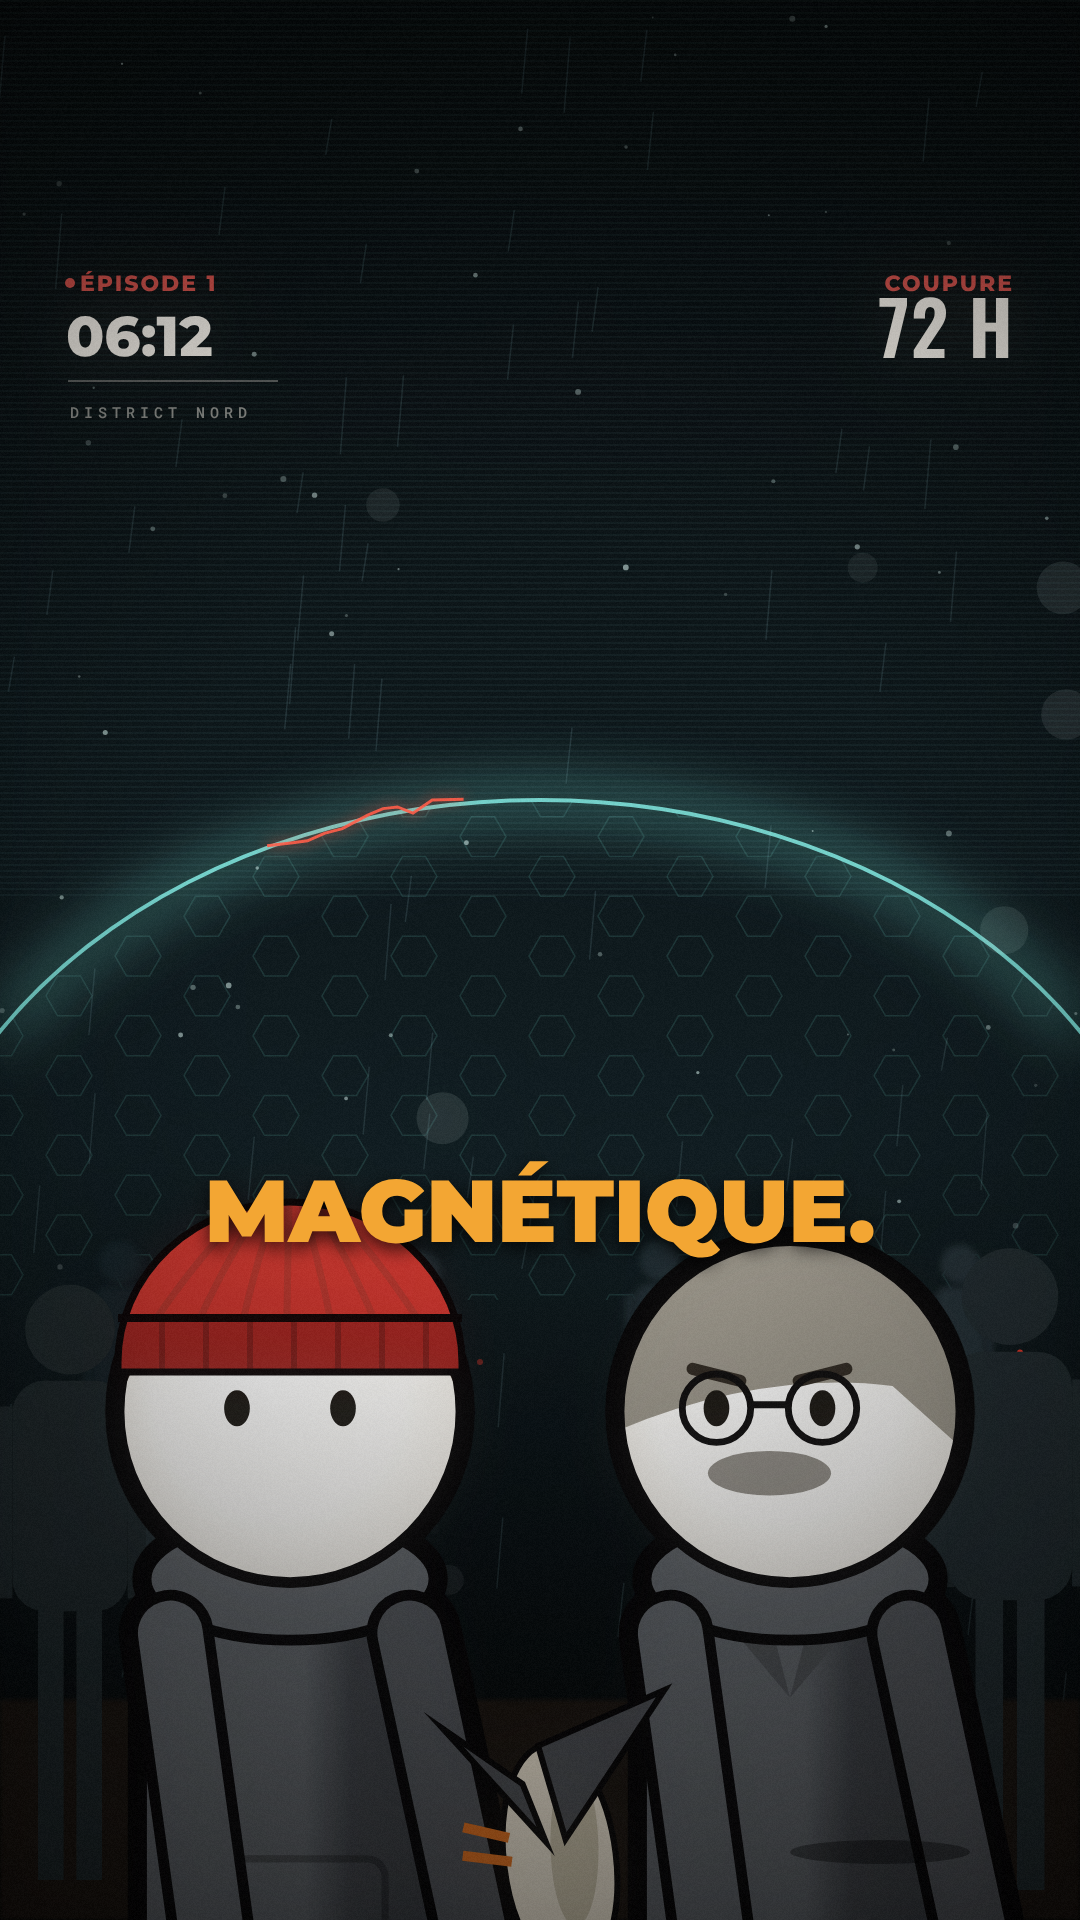
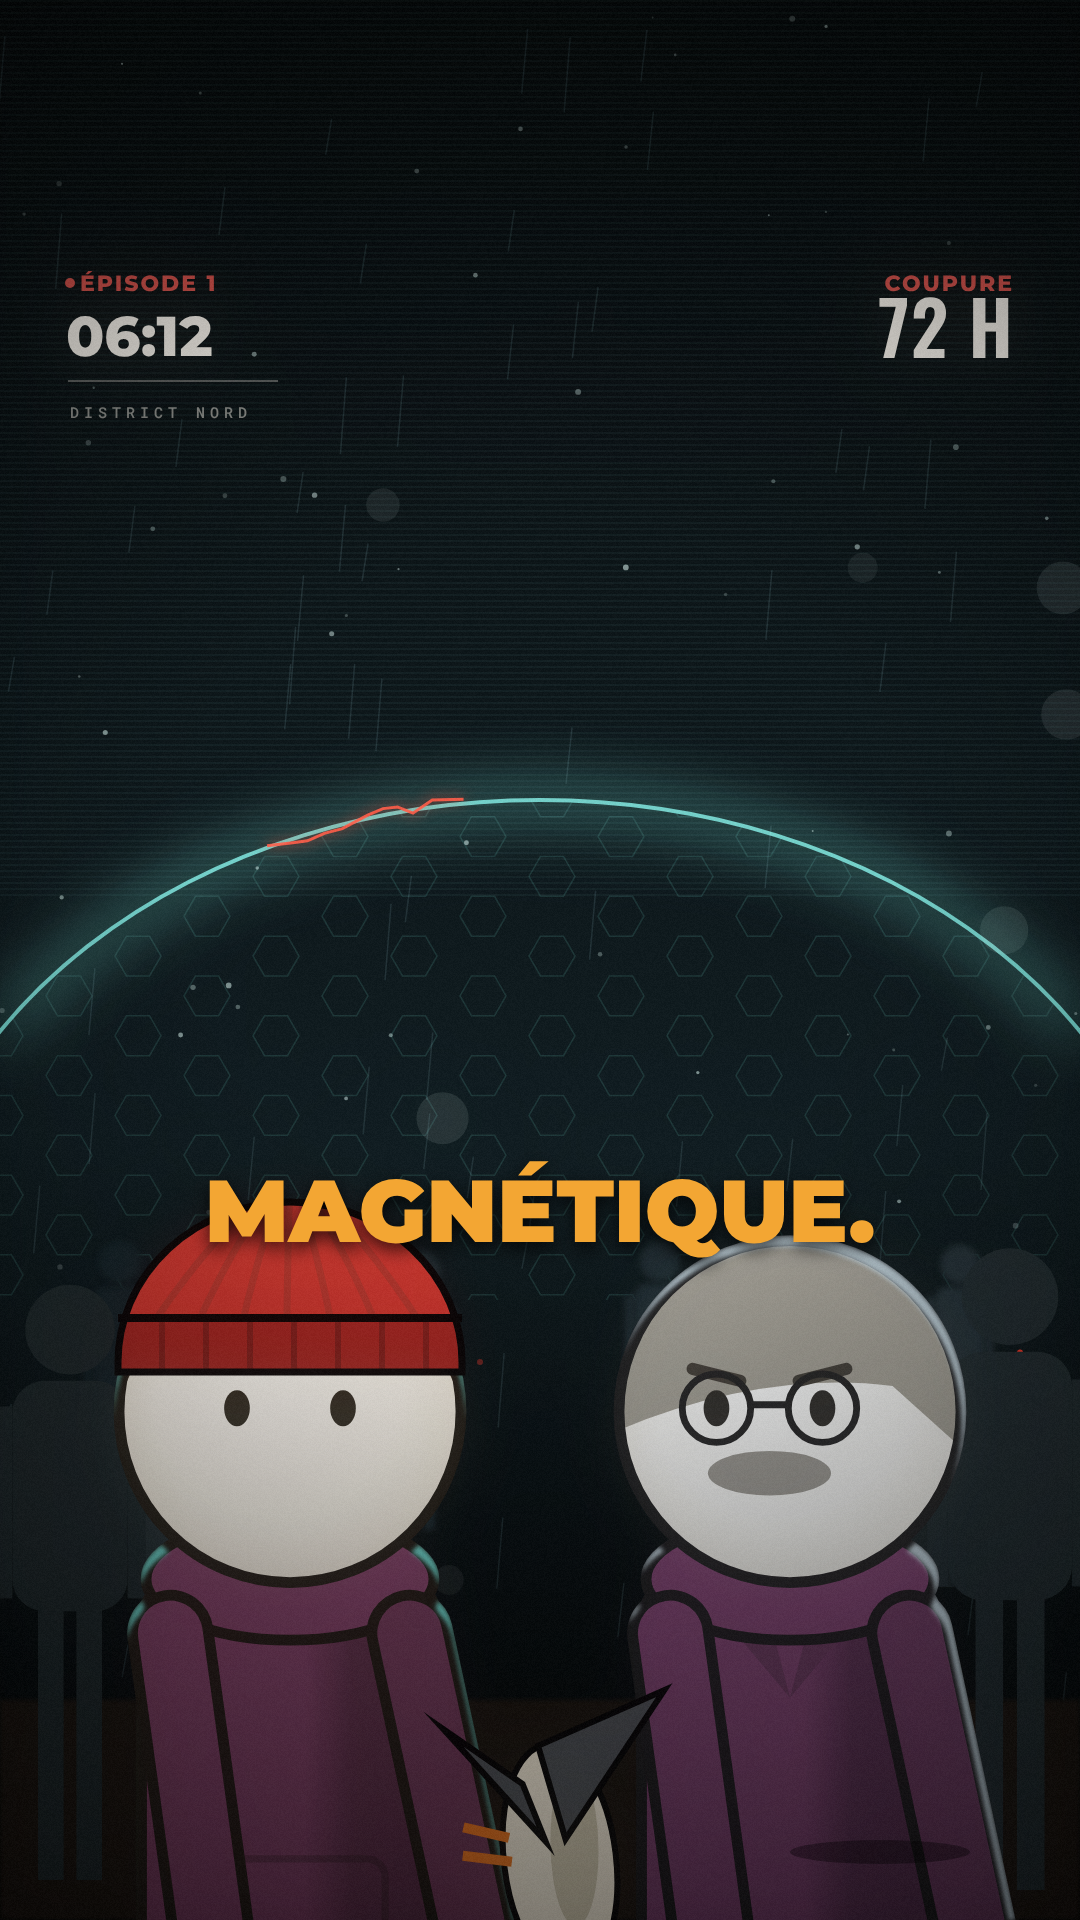
couronne-ep01 : personnages — retour au rendu d'origine (modelé, contre-jour, contour unique), vêtements prune entre violet et bordeaux, col étroit
Claude-Session: https://claude.ai/code/session_0151hKPePi5KPXjL7mUCuxno

diff --git a/productions/couronne-ep01/rendu_v3/scenes.js b/productions/couronne-ep01/rendu_v3/scenes.js
@@ -770,8 +770,8 @@ S.p02h_buste_vivant = g => {                              // image 2 v13
   holoDome(g, 101);
   layer(g, q => { q.fillStyle = "#1b1510"; q.fillRect(0, 1700, W, H - 1700); }, { blur: 2 });
   crowdStanding(g);
-  actor(g, 790, 2650, 1.8, { ...PERE, body: "#5d6166", bodyDark: "#383b40", ring: "#5d6166", ringW: 80, torsoW: 165, look: -0.12, arms: [[-1, 10], [1, 10]] }, { flat: true, shadow: false });   // père, côté droit
-  actor(g, 290, 2650, 1.8, { ...HERO, body: "#5d6166", bodyDark: "#383b40", ring: "#5d6166", ringW: 80, strings: false, torsoW: 165, look: 0.0, arms: [[-1, 10], [1, 10]] }, { flat: true, shadow: false });
+  actor(g, 790, 2650, 1.8, { ...PERE, body: "#6e2d5e", bodyDark: "#43193a", ring: "#6e2d5e", ringW: 80, torsoW: 165, look: -0.12, arms: [[-1, 10], [1, 10]] }, { rim: "#cfe3ee", rimAng: -1.2, rimW: 7, key: "#dfe9ef", shadow: false, ink: 0 });   // père, côté droit
+  actor(g, 290, 2650, 1.8, { ...HERO, body: "#6e2d5e", bodyDark: "#43193a", ring: "#6e2d5e", ringW: 80, strings: false, torsoW: 165, look: 0.0, arms: [[-1, 10], [1, 10]] }, { rim: TEAL, rimAng: -1.57, rimW: 7, key: "#ffd9a0", shadow: false, ink: 0 });
   // bonnet rouge replié : calotte à côtes qui convergent vers le haut, revers replié en bas (côtes plus foncées)
   const dome = () => { g.beginPath(); g.ellipse(290, 1362, 172, 160, 0, Math.PI, 2 * Math.PI); g.lineTo(462, 1372); g.lineTo(118, 1372); g.closePath(); };
   g.save(); dome(); g.fillStyle = "#c4342d"; g.fill(); g.clip();
@@ -793,8 +793,8 @@ S.p02i_sol_vivant = g => {                                // image 3 v13
   holoDome(g, 103);
   layer(g, q => { q.fillStyle = "#1b1510"; q.fillRect(0, 1700, W, H - 1700); }, { blur: 2 });
   crowdStanding(g);
-  actor(g, 790, 2650, 1.8, { ...PERE, body: "#5d6166", bodyDark: "#383b40", ring: "#5d6166", ringW: 80, torsoW: 165, look: -0.12, arms: [[-1, 10], [1, 10]] }, { flat: true, shadow: false });   // père, côté droit
-  actor(g, 290, 2650, 1.8, { ...HERO, body: "#5d6166", bodyDark: "#383b40", ring: "#5d6166", ringW: 80, strings: false, torsoW: 165, look: 0.0, arms: [[-1, 10], [1, 10]] }, { flat: true, shadow: false });
+  actor(g, 790, 2650, 1.8, { ...PERE, body: "#6e2d5e", bodyDark: "#43193a", ring: "#6e2d5e", ringW: 80, torsoW: 165, look: -0.12, arms: [[-1, 10], [1, 10]] }, { rim: "#cfe3ee", rimAng: -1.2, rimW: 7, key: "#dfe9ef", shadow: false, ink: 0 });   // père, côté droit
+  actor(g, 290, 2650, 1.8, { ...HERO, body: "#6e2d5e", bodyDark: "#43193a", ring: "#6e2d5e", ringW: 80, strings: false, torsoW: 165, look: 0.0, arms: [[-1, 10], [1, 10]] }, { rim: TEAL, rimAng: -1.57, rimW: 7, key: "#ffd9a0", shadow: false, ink: 0 });
   g.fillStyle = "rgba(0,0,0,0.4)"; g.beginPath(); g.ellipse(880, 1852, 90, 12, 0, 0, 7); g.fill();
   // bonnet rouge replié : calotte à côtes qui convergent vers le haut, revers replié en bas (côtes plus foncées)
   const dome = () => { g.beginPath(); g.ellipse(290, 1362, 172, 160, 0, Math.PI, 2 * Math.PI); g.lineTo(462, 1372); g.lineTo(118, 1372); g.closePath(); };
